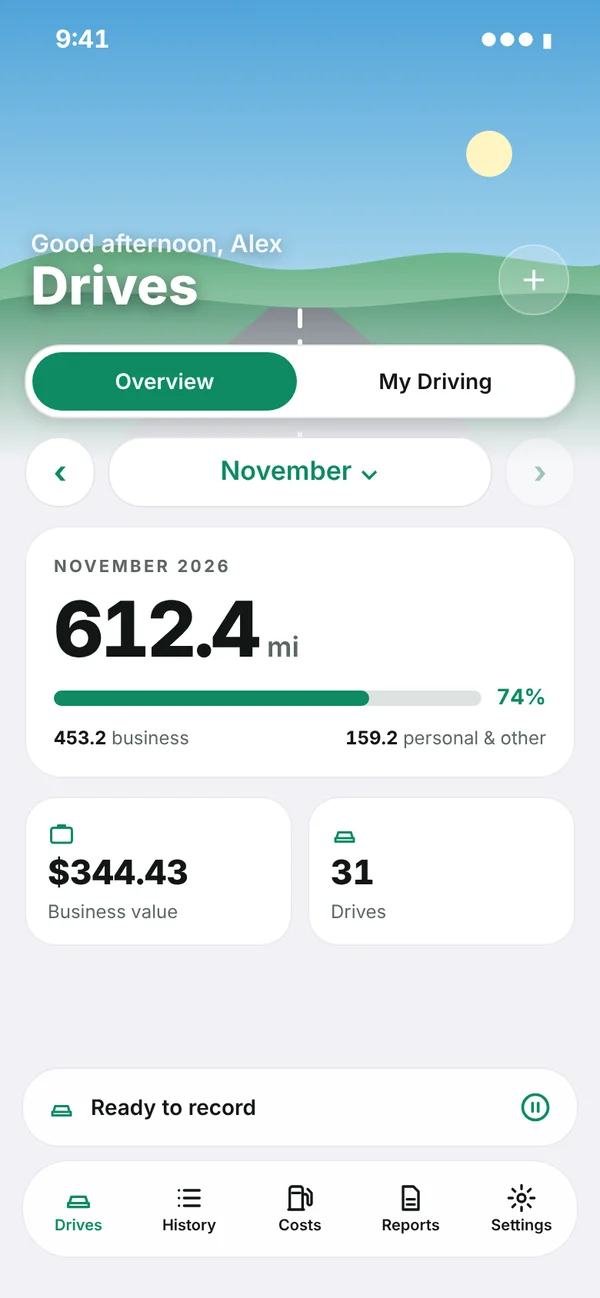
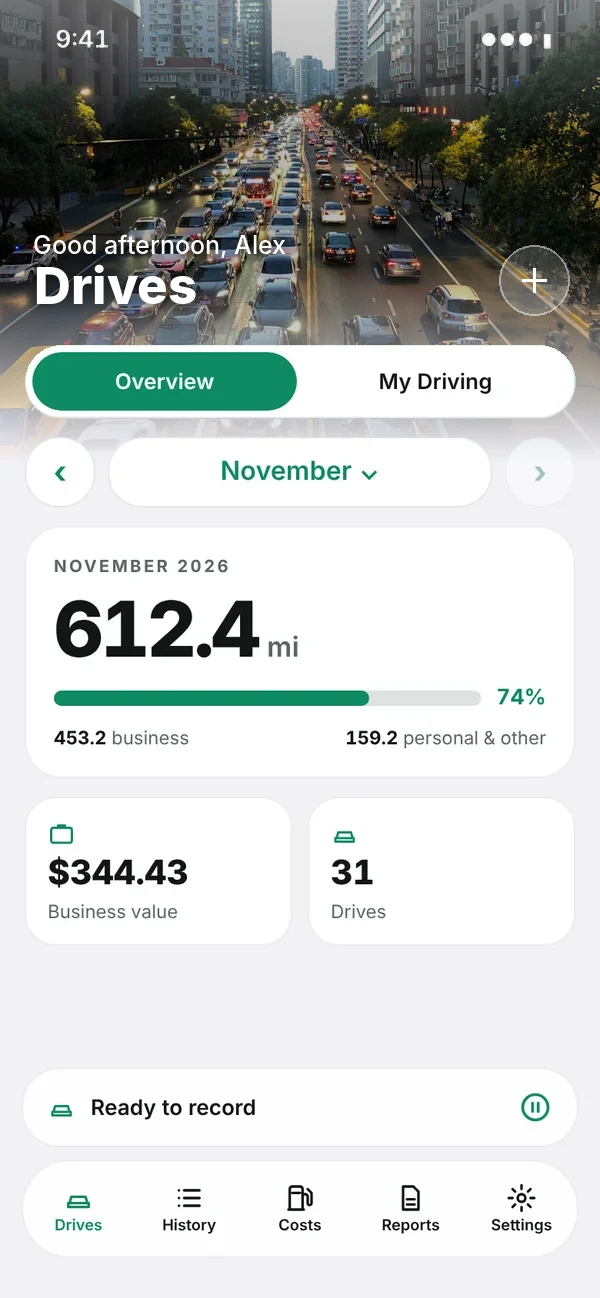
MileGuard: photo headers in screenshots

Changed region(s): [[0.0, 0.0, 1.0, 0.339]]

diff --git a/mileguard.html b/mileguard.html
@@ -12,7 +12,7 @@
 <meta property="og:type" content="website">
 <meta property="og:title" content="MileGuard — Drive for work. We keep the log. Coming soon to iPhone.">
 <meta property="og:description" content="Every work drive recorded on its own, with CarPlay, receipts and a year-end tax summary.">
-<meta property="og:image" content="https://gap-apps.com/assets/mileguard/mg-og.png">
+<meta property="og:image" content="https://gap-apps.com/assets/mileguard/mg-og.png?v=2">
 <meta property="og:image:width" content="1200">
 <meta property="og:image:height" content="630">
 <meta property="og:image:alt" content="MileGuard — Drive for work. We keep the log. Tax time, done. Coming soon to iPhone and CarPlay.">
@@ -21,7 +21,7 @@
 <meta name="twitter:card" content="summary_large_image">
 <meta name="twitter:title" content="MileGuard — Drive for work. We keep the log. Coming soon to iPhone.">
 <meta name="twitter:description" content="Every work drive recorded on its own, with CarPlay, receipts and a year-end tax summary.">
-<meta name="twitter:image" content="https://gap-apps.com/assets/mileguard/mg-og.png">
+<meta name="twitter:image" content="https://gap-apps.com/assets/mileguard/mg-og.png?v=2">
 <meta name="twitter:image:alt" content="MileGuard — Drive for work. We keep the log. Tax time, done. Coming soon to iPhone and CarPlay.">
 <link rel="icon" href="/favicon.ico" sizes="any">
 <link rel="icon" type="image/png" sizes="32x32" href="/favicon-32x32.png">
@@ -274,8 +274,8 @@ footer{border-top:1px solid var(--line);padding:2.2rem 0}
       <div class="chips"><span>Records on its own</span><span>Works with CarPlay</span><span>Tap to classify in the car</span><span>Toll roads spotted</span><span>Driving score</span><span>On the web too</span><span>Private by default</span></div>
     </div>
     <div class="stage">
-      <div class="phone a"><img src="assets/mileguard/mg-screen-home-light.webp" alt="MileGuard home: this month's miles, business share and business value"></div>
-      <div class="phone b"><img src="assets/mileguard/mg-screen-driving.webp" alt="My Driving: a driving score of 88 with hard braking, acceleration, speeding and top speed"></div>
+      <div class="phone a"><img src="assets/mileguard/mg-screen-home-light.webp?v=2" alt="MileGuard home: this month's miles, business share and business value"></div>
+      <div class="phone b"><img src="assets/mileguard/mg-screen-driving.webp?v=2" alt="My Driving: a driving score of 88 with hard braking, acceleration, speeding and top speed"></div>
       <span class="preview-note">Sample data. The final app may differ.</span>
     </div>
   </div>
@@ -302,13 +302,13 @@ footer{border-top:1px solid var(--line);padding:2.2rem 0}
     <div class="steps">
       <div class="step"><span class="n">01</span><h3>It records on its own</h3><p>Drives start and stop by themselves. Turn on Only record in my car and rides as a passenger stay out of your log.</p>
         <ul><li><b>✓</b> Starts with CarPlay or your car's Bluetooth</li><li><b>✓</b> Split drives joined, return trips filled in</li><li><b>✓</b> Your usual purposes one tap away</li></ul>
-        <div class="shot"><img src="assets/mileguard/mg-screen-home.webp" alt="Home screen with this month's miles"></div></div>
+        <div class="shot"><img src="assets/mileguard/mg-screen-home.webp?v=2" alt="Home screen with this month's miles"></div></div>
       <div class="step"><span class="n">02</span><h3>Every cost on the drive</h3><p>Toll roads are spotted on your route. Import the statement from your toll account and each toll lands on the right drive.</p>
         <ul><li><b>✓</b> Tolls, parking and business meals</li><li><b>✓</b> Receipt photos kept with the drive</li><li><b>✓</b> Fuel and car costs for the actual method</li></ul>
         <div class="shot"><img src="assets/mileguard/mg-screen-drive-light.webp" alt="A business drive with tolls, parking and a client lunch"></div></div>
       <div class="step"><span class="n">03</span><h3>A summary that holds up</h3><p>Drive logs, reimbursement claims, and a year-end tax summary your tax preparer can work from.</p>
         <ul><li><b>✓</b> Answers Schedule C Part IV</li><li><b>✓</b> Standard rate vs actual expenses</li><li><b>✓</b> Monthly log ready to send to your accountant</li></ul>
-        <div class="shot"><img src="assets/mileguard/mg-screen-reports-light.webp" alt="Year-end tax summary comparing the two methods"></div></div>
+        <div class="shot"><img src="assets/mileguard/mg-screen-reports-light.webp?v=2" alt="Year-end tax summary comparing the two methods"></div></div>
     </div>
   </div>
 </section>
@@ -363,8 +363,8 @@ footer{border-top:1px solid var(--line);padding:2.2rem 0}
       <ul class="score-list"><li><b>✓</b>Score for every drive and every month</li><li><b>✓</b>Hard braking and acceleration measured on every drive</li><li><b>✓</b>Speeding checked against posted limits</li><li><b>✓</b>Top speed and week-by-week trend</li></ul>
     </div>
     <div class="duo">
-      <div class="phone a"><img src="assets/mileguard/mg-screen-driving-light.webp" alt="My Driving dashboard"></div>
-      <div class="phone b"><img src="assets/mileguard/mg-screen-home.webp" alt="Home screen"></div>
+      <div class="phone a"><img src="assets/mileguard/mg-screen-driving-light.webp?v=2" alt="My Driving dashboard"></div>
+      <div class="phone b"><img src="assets/mileguard/mg-screen-home.webp?v=2" alt="Home screen"></div>
     </div>
   </div>
 </section>

diff --git a/index.html b/index.html
@@ -487,9 +487,9 @@
       <div class="acts"><a class="btn btn-primary mg-btn" href="mileguard.html">See MileGuard</a><a class="btn btn-ghost" href="mileguard.html#waitlist">Join the waitlist</a></div>
     </div>
     <div class="mg-stage" aria-label="MileGuard screens">
-      <div class="mg-ph l"><img src="assets/mileguard/mg-screen-driving.webp" alt="MileGuard My Driving score" loading="lazy"></div>
-      <div class="mg-ph c"><img src="assets/mileguard/mg-screen-home-light.webp" alt="MileGuard home: this month's miles and business value" loading="lazy"></div>
-      <div class="mg-ph r"><img src="assets/mileguard/mg-screen-reports.webp" alt="MileGuard year-end tax summary" loading="lazy"></div>
+      <div class="mg-ph l"><img src="assets/mileguard/mg-screen-driving.webp?v=2" alt="MileGuard My Driving score" loading="lazy"></div>
+      <div class="mg-ph c"><img src="assets/mileguard/mg-screen-home-light.webp?v=2" alt="MileGuard home: this month's miles and business value" loading="lazy"></div>
+      <div class="mg-ph r"><img src="assets/mileguard/mg-screen-reports.webp?v=2" alt="MileGuard year-end tax summary" loading="lazy"></div>
     </div>
   </div>
 </section>
